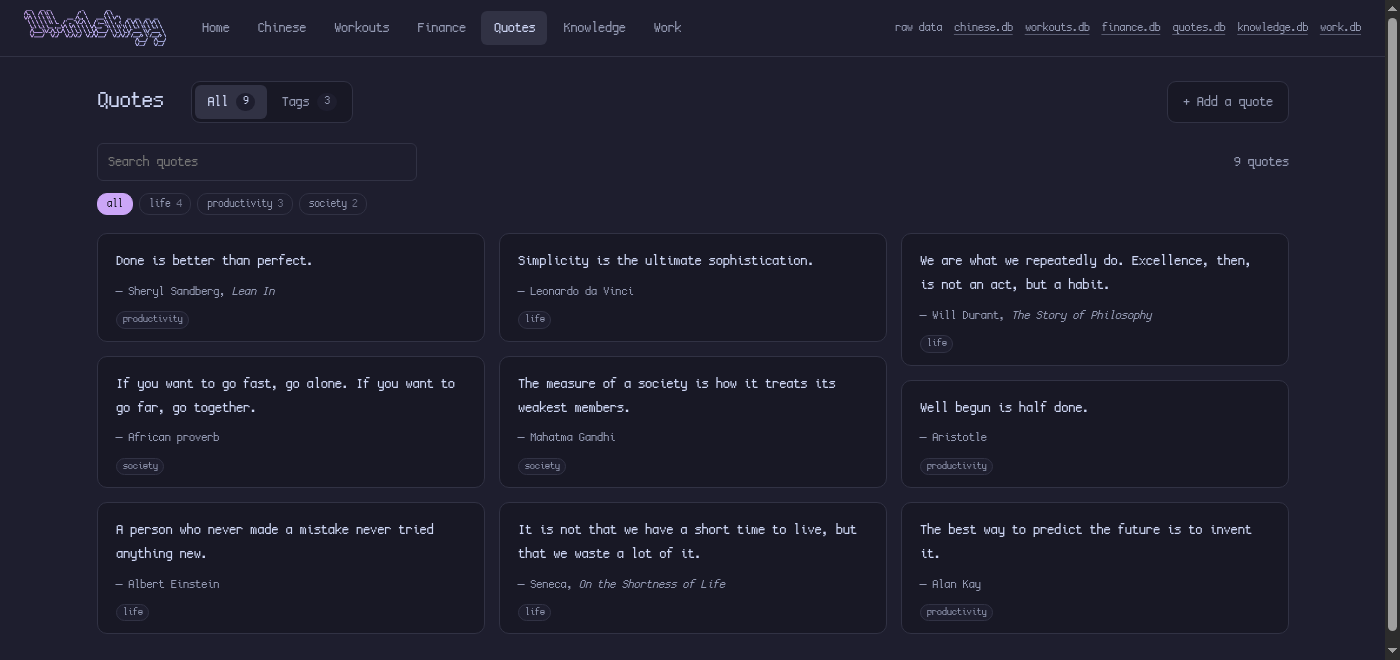
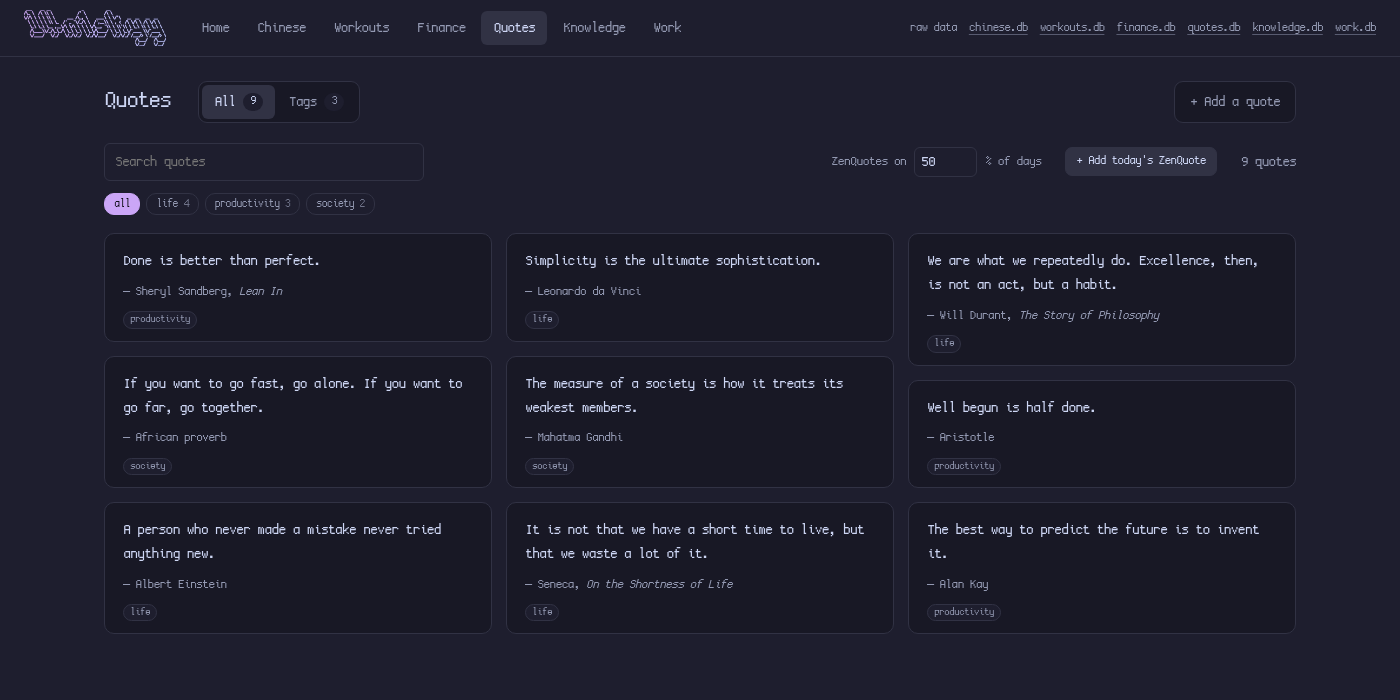
Screenshots retaken; Finance moved to the bottom, Quotes beside Work

diff --git a/README.md b/README.md
@@ -26,13 +26,13 @@ ALSO! fun fact, can connect ibkr and wise api directly to investments page. And 
 |---|---|
 | ![Chinese lists](docs/chinese.png) | ![Workout plans](docs/workouts.png) |
 
-| Finance | Work |
+| Quotes | Work |
 |---|---|
-| ![Finance investments](docs/finance.png) | ![Work tasks](docs/work.png) |
+| ![Quotes](docs/quotes.png) | ![Work tasks](docs/work.png) |
 
-| Quotes |
+| Finance |
 |---|
-| ![Quotes](docs/quotes.png) |
+| ![Finance investments](docs/finance.png) |
 
 ## Install
 
